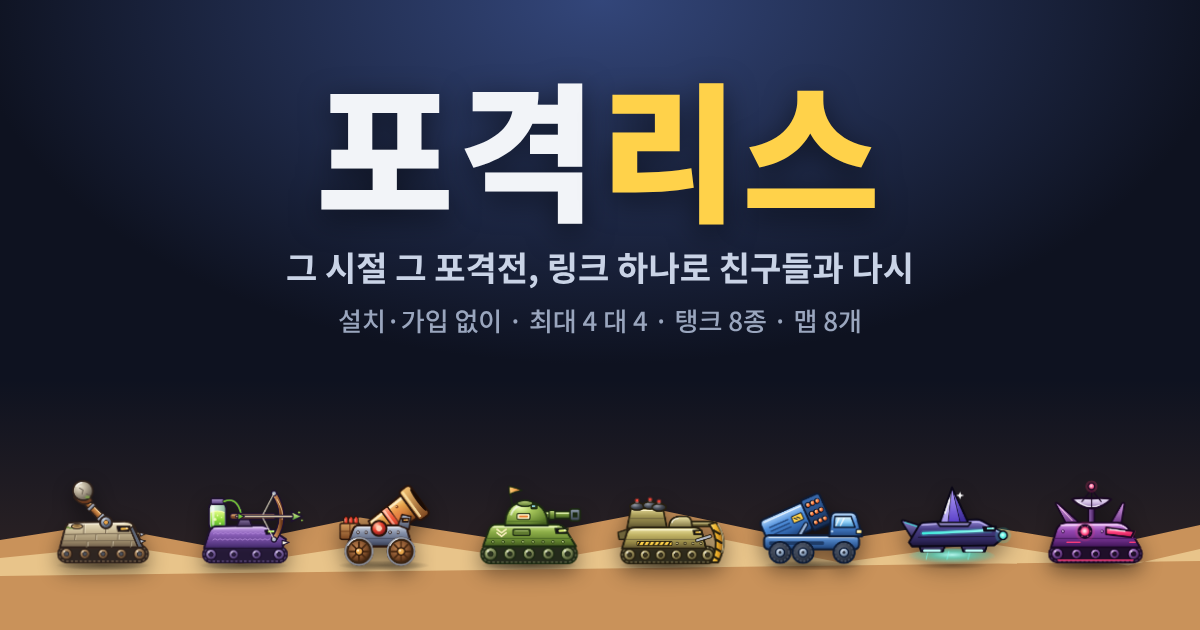
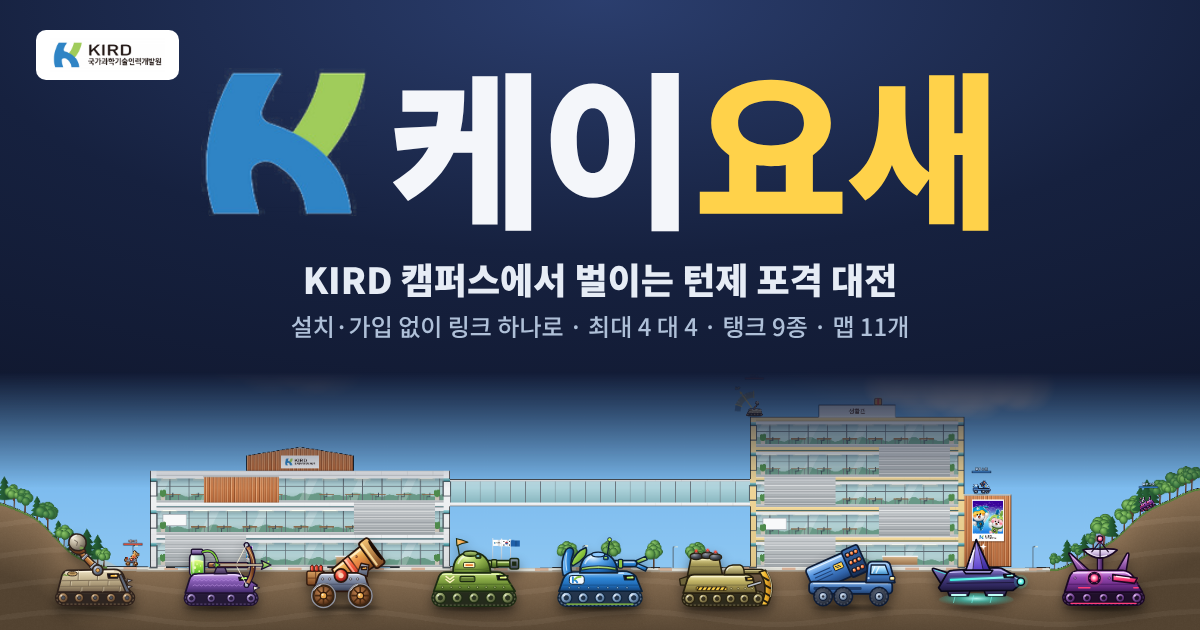
케이요새: 링크 공유 미리보기 그림(og.png) 새로 — K 로고, KIRD 캠퍼스, 탱크 9종 (캐시 갱신용 ?v=2)
Claude-Session: https://claude.ai/code/session_01T8WYKi5wPT7U3A57Myotpg

diff --git a/index.html b/index.html
@@ -7,7 +7,7 @@
 <meta property="og:type" content="website">
 <meta property="og:title" content="케이요새">
 <meta property="og:description" content="그 시절 그 포격전, 링크 하나로 친구들과 다시. 설치·가입 없이 최대 4 대 4.">
-<meta property="og:image" content="https://kird-cyber.github.io/kirdwork/og.png">
+<meta property="og:image" content="https://kird-cyber.github.io/kirdwork/og.png?v=2">
 <meta property="og:image:width" content="1200">
 <meta property="og:image:height" content="630">
 <meta name="twitter:card" content="summary_large_image">

diff --git a/dev/build.py b/dev/build.py
@@ -17,7 +17,7 @@ head = ('<!doctype html>\n<html lang="ko">\n<head>\n<meta charset="utf-8">\n'
         '<meta name="description" content="친구와 링크 하나로 붙는 턴제 포격 대전 · 최대 4 대 4">\n'
         '<meta property="og:type" content="website">\n<meta property="og:title" content="케이요새">\n'
         '<meta property="og:description" content="그 시절 그 포격전, 링크 하나로 친구들과 다시. 설치·가입 없이 최대 4 대 4.">\n'
-        '<meta property="og:image" content="https://kird-cyber.github.io/kirdwork/og.png">\n'
+        '<meta property="og:image" content="https://kird-cyber.github.io/kirdwork/og.png?v=2">\n'
         '<meta property="og:image:width" content="1200">\n<meta property="og:image:height" content="630">\n'
         '<meta name="twitter:card" content="summary_large_image">\n'
         '<link rel="icon" href="favicon.png">\n'
